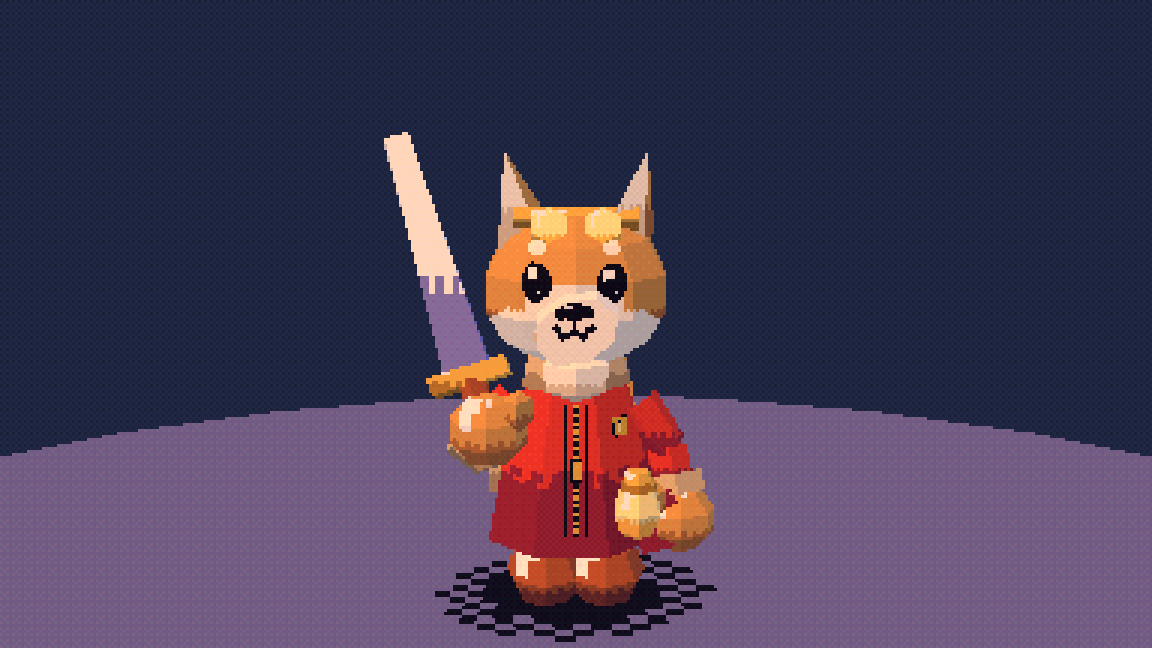
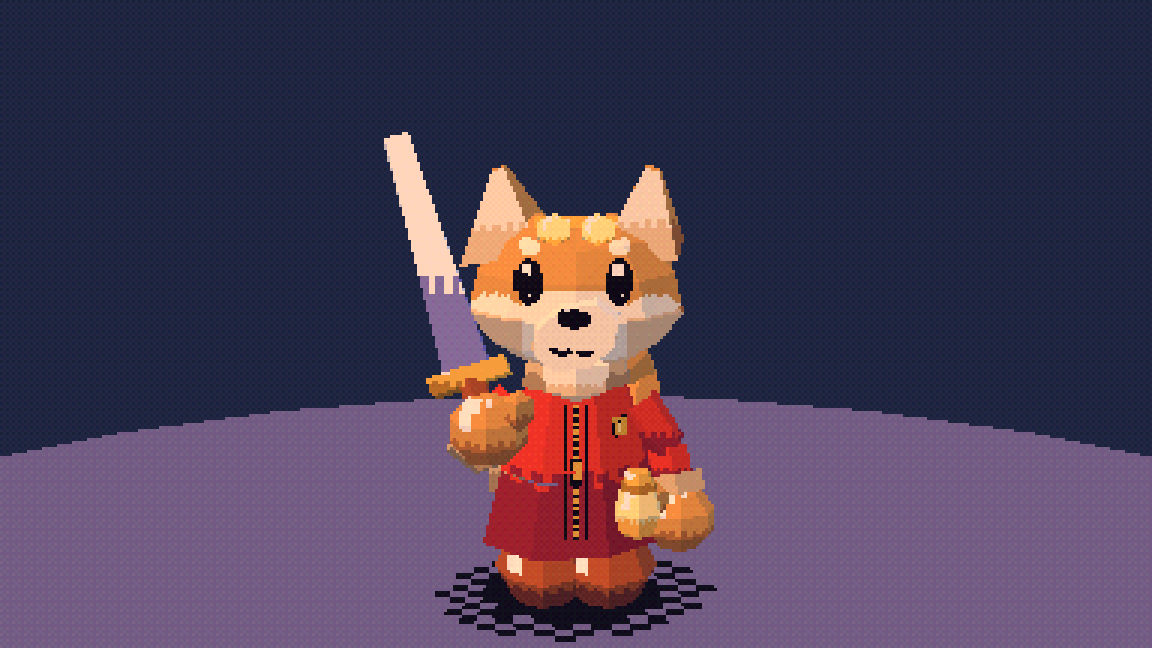
Polish shiba Red F: chunkier legs/boots, clean hem, warm cream, fuller tail, wider ears, bean head (884 tris).
Claude-Session: https://claude.ai/code/session_012jSmZ4BPCmd8jMXHsVXFG6

Changed region(s): [[0.4062, 0.2469, 0.5938, 0.6173], [0.4062, 0.8025, 0.5938, 0.9259], [0.4688, 0.7407, 0.5, 0.7716]]

diff --git a/game/scripts/tools/prototypes/red_proto_f.py b/game/scripts/tools/prototypes/red_proto_f.py
@@ -182,7 +182,7 @@ def L(v):
     return LEAN @ Vector(v)
 
 
-TAIL_PTS = [Vector(p) for p in ((0.09, 0.17, 0.25), (0.20, 0.30, 0.31), (0.24, 0.34, 0.47), (0.17, 0.29, 0.63))]
+TAIL_PTS = [Vector(p) for p in ((0.07, 0.16, 0.26), (0.15, 0.285, 0.34), (0.17, 0.32, 0.49), (0.09, 0.26, 0.61))]
 
 JOINTS = {
     "root": ((0, 0, 0), (0, 0, 0.05)),
@@ -334,6 +334,11 @@ def paint_face():
                     near = [img.getpixel((ox + min(max(x + dx, 0), 63), min(max(y + dy, 0), 63))) for dx, dy in ((1, 0), (-1, 0), (0, 1), (0, -1))]
                     if here == cream and any(c in (tawny, tawny_shade) for c in near):
                         img.putpixel((ox + x, y), tawny_shade if y > step_row else tawny)
+        # cream in the shade rows is the warm shade cream, never a cold or grey one
+        for y in range(step_row + 1, FACE_CELL):
+            for x in range(FACE_CELL):
+                if img.getpixel((ox + x, y)) == cream:
+                    img.putpixel((ox + x, y), cream_shade)
         # muzzle cap: cream, nose, mouth
         a0, b0 = P(-MUZZLE_RX * 1.05, mz + MUZZLE_RZ * 1.1)
         a1, b1 = P(MUZZLE_RX * 1.05, mz - MUZZLE_RZ * 1.1)
@@ -342,9 +347,11 @@ def paint_face():
         na1, nb1 = P(0.036, mz + 0.022)
         d.ellipse([na0, nb0, na1, nb1], fill=ink)
         d.rectangle([na0 + 2, nb0 + 1, na0 + 4, nb0 + 1], fill=chalk)
-        d.line([P(0.0, mz + 0.022), P(0.0, mz + 0.0)], fill=ink, width=1)
         if not grin:
-            d.line([P(-0.045, mz + 0.012), P(-0.022, mz - 0.012), P(0.0, mz + 0.0), P(0.022, mz - 0.012), P(0.045, mz + 0.012)], fill=ink, width=2)
+            for k in (-1, 1):                       # two small arcs under the nose: the shiba "w" smile
+                ax0, ay0 = P(min(0.0, 0.055 * k), mz + 0.004)
+                ax1, ay1 = P(max(0.0, 0.055 * k), mz - 0.04)
+                d.arc([ax0, ay0, ax1, ay1], 15, 165, fill=ink, width=2)
         else:
             ma0, mb0 = P(-0.058, mz + 0.0)
             ma1, mb1 = P(0.058, mz - 0.07)
@@ -364,8 +371,8 @@ def paint_face():
             else:
                 pts = [P(ex - 0.035, ez - 0.02), P(ex - 0.015, ez + 0.02), P(ex, ez + 0.032), P(ex + 0.015, ez + 0.02), P(ex + 0.035, ez - 0.02)]
                 d.line(pts, fill=ink, width=3)
-            da0, db0 = P(ex - 0.02, ez + 0.105 + (0.012 if grin else 0.0))
-            da1, db1 = P(ex + 0.02, ez + 0.073 + (0.012 if grin else 0.0))
+            da0, db0 = P(ex - 0.02, ez + 0.09 + (0.012 if grin else 0.0))
+            da1, db1 = P(ex + 0.02, ez + 0.065 + (0.012 if grin else 0.0))
             d.ellipse([da0, db0, da1, db1], fill=cream)
     img.save(FACE_PATH)
 
@@ -435,9 +442,9 @@ def build_body(jacket_probe=None, head_probe_obj=None):
         mid = (a + b) / 2
         direction = (b - a).normalized()
         basis = Vector((0, 0, 1)).rotation_difference(direction).to_matrix().to_4x4()
-        r = 0.078 if i < 2 else 0.074
-        pm.add("tail", SLOT_BODY, "ell", center=tuple(mid), basis=basis, uv=P("tawny"), seg=6, rings=3,
-               radii=(r, r, (b - a).length / 2 + 0.035))
+        r = (0.084, 0.088, 0.078)[i]
+        pm.add("tail", SLOT_BODY, "ell", center=tuple(mid), basis=basis, uv=planar_z("tawny", 0.20, 0.72), seg=6, rings=4,
+               radii=(r, r, (b - a).length / 2 + 0.05))
 
     # Satchel (back right hip) and the chunky brass lamp bulb at the left hip front (on the hips bone).
     pm.add("hips", SLOT_BODY, "box", center=(-0.175, 0.15, 0.30), rot=(0, 0, -8), uv=P("tan"), size=(0.08, 0.15, 0.13))
